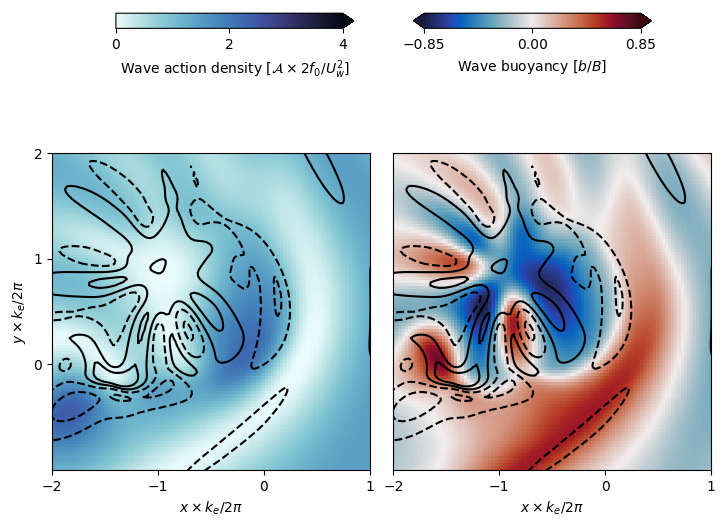
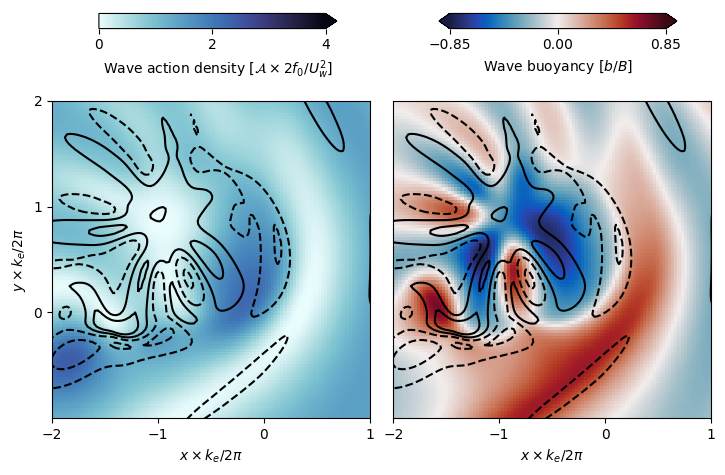
Updates fig1b

diff --git a/code/SinxSiny.py b/code/SinxSiny.py
@@ -3,8 +3,8 @@
     coupled with SinxSiny flow
 
  Notes:
-
 """
+
 import timeit
 start = timeit.default_timer()
 
@@ -21,21 +21,21 @@ plt.close('all')
 
 patho = "outputs/sinxsiny_wavepacket"
 # parameters
-nx = 256*4
+nx = 512
 f0 = 1.e-4
 N = 0.005
 L = 2*np.pi*200e3
 #λz = 2000
 #λz = 4000
-λz = 225
+λz = 500
 
 m = 2*np.pi/λz
 #nu4, nu4w = 1e10, 3.5e9   # hyperviscosity
-nu4, nu4w = 1e7, 1e7 # hyperviscosity
+nu4, nu4w = 1e7, 1.e6 # hyperviscosity
 
 # initial conditions
 Ue = 0.05
-Uw = 6.3*Ue
+Uw = 4*Ue
 ke = 1*(2*np.pi/L)
 Le = 2*np.pi/ke
 
@@ -50,15 +50,15 @@ alpha = Ro*( (Uw/Ue)**2 )
 
 # simulation parameters
 #dt = .0025*Te
-dt = .0025*Te/4
+dt = .001*Te
 tmax = 10*Te
 
 ## setup model class
 model = Model.Model(L=L,nx=nx, tmax = tmax,dt = dt,
                  m=m,N=N,f=f0, twrite=int(0.1*Te/dt),
-                 nu4=nu4*0,nu4w=nu4w*0,nu=0,nuw=0, mu=0,muw=0,use_filter=True,
+                 nu4=nu4,nu4w=nu4w,nu=0,nuw=0, mu=0,muw=0,use_filter=False,
                  U =0, tdiags=10,
-                 save_to_disk=True,tsave_snapshots=100, path=patho)
+                 save_to_disk=True,tsave_snapshots=100, path=patho,use_mkl=True,nthreads=2)
 
 #model = Model.Model(L=L,nx=nx, tmax = tmax,dt = dt,
 #                twrite=int(0.1*Te/dt),
@@ -72,9 +72,9 @@ model = Model.Model(L=L,nx=nx, tmax = tmax,dt = dt,
 p = (Ue/ke)*( np.sin(ke*model.x) + np.sin(ke*model.y) )
 q = -(ke**2)*p
 phi = (np.ones_like(q) + 1j)*Uw/np.sqrt(2)
-phi1 = Uw*ic.WavePacket(model, k=10*ke, l=0*ke, R=L/8,
+phi1 = Uw*ic.WavePacket(model, k=14*ke, l=0*ke, R=L/16,
                               x0=model.x.mean()+L/4, y0=model.x.mean()-L/4)
-phi = phi1
+phi = phi1/np.sqrt(2)
 
 model.set_q(q)
 model.set_phi(phi)

diff --git a/code/Figure1b.py b/code/Figure1b.py
@@ -98,10 +98,10 @@ ax2.set_xlabel(r"$x\times k_e/2\pi$")
 
 # colorbar
 #fig.subplots_adjust(right=0.8)
-cbar_ax = fig.add_axes([0.2, 1.01, 0.28, 0.0275])
+cbar_ax = fig.add_axes([0.18, .915, 0.28, 0.0275])
 fig.colorbar(pc1, cax=cbar_ax,label=r"Wave action density $[\mathcal{A} \times 2 f_0 /U_w^2]$",
                     orientation='horizontal', ticks=[0.,2.,4.],extend='max')
-cbar_ax = fig.add_axes([0.55, 1.01, 0.28, 0.0275])
+cbar_ax = fig.add_axes([0.58, .915, 0.28, 0.0275])
 fig.colorbar(pc2, cax=cbar_ax,label=r"Wave buoyancy $[b/B]$",
                     orientation='horizontal',ticks=[-.85,0.,.85],
                     extend='both')
